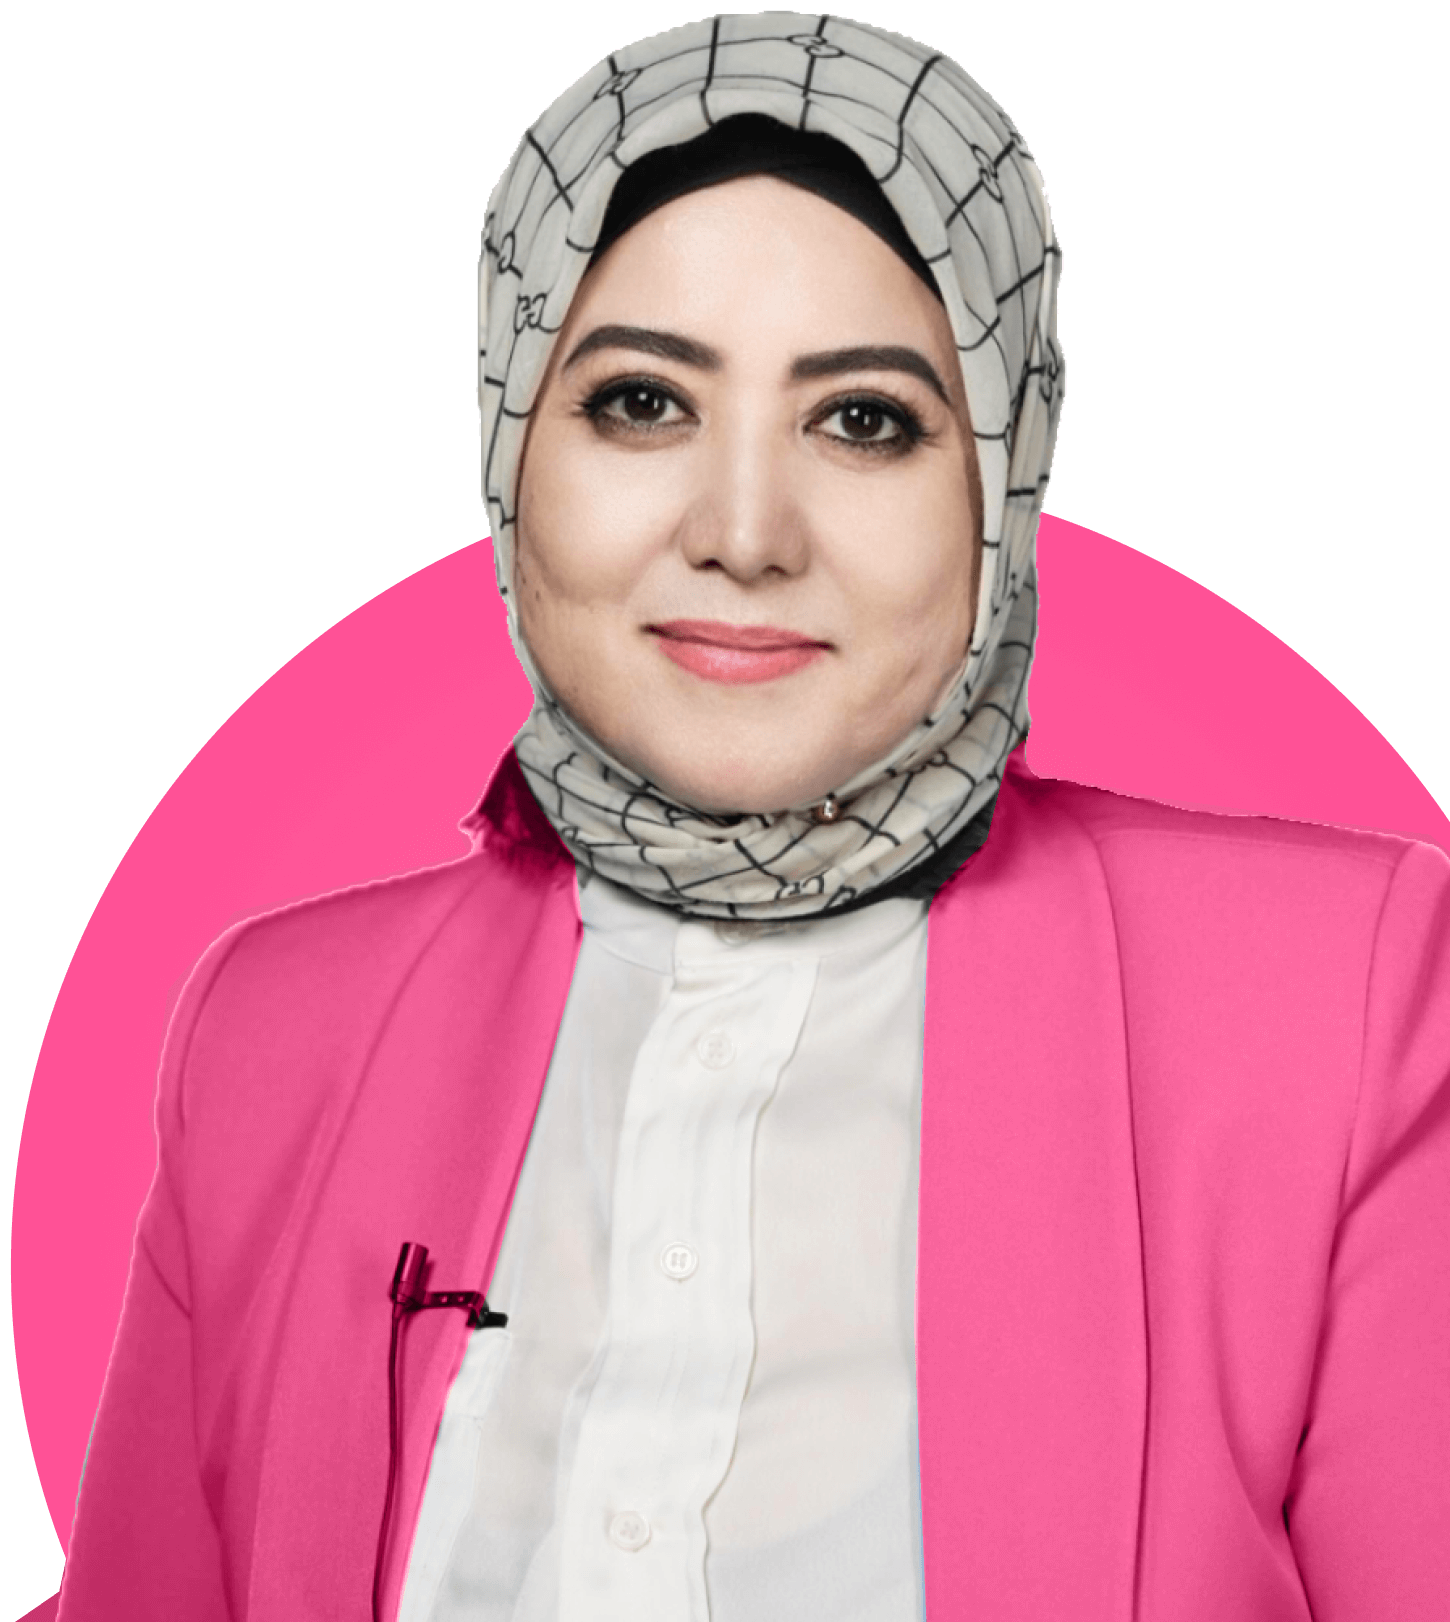
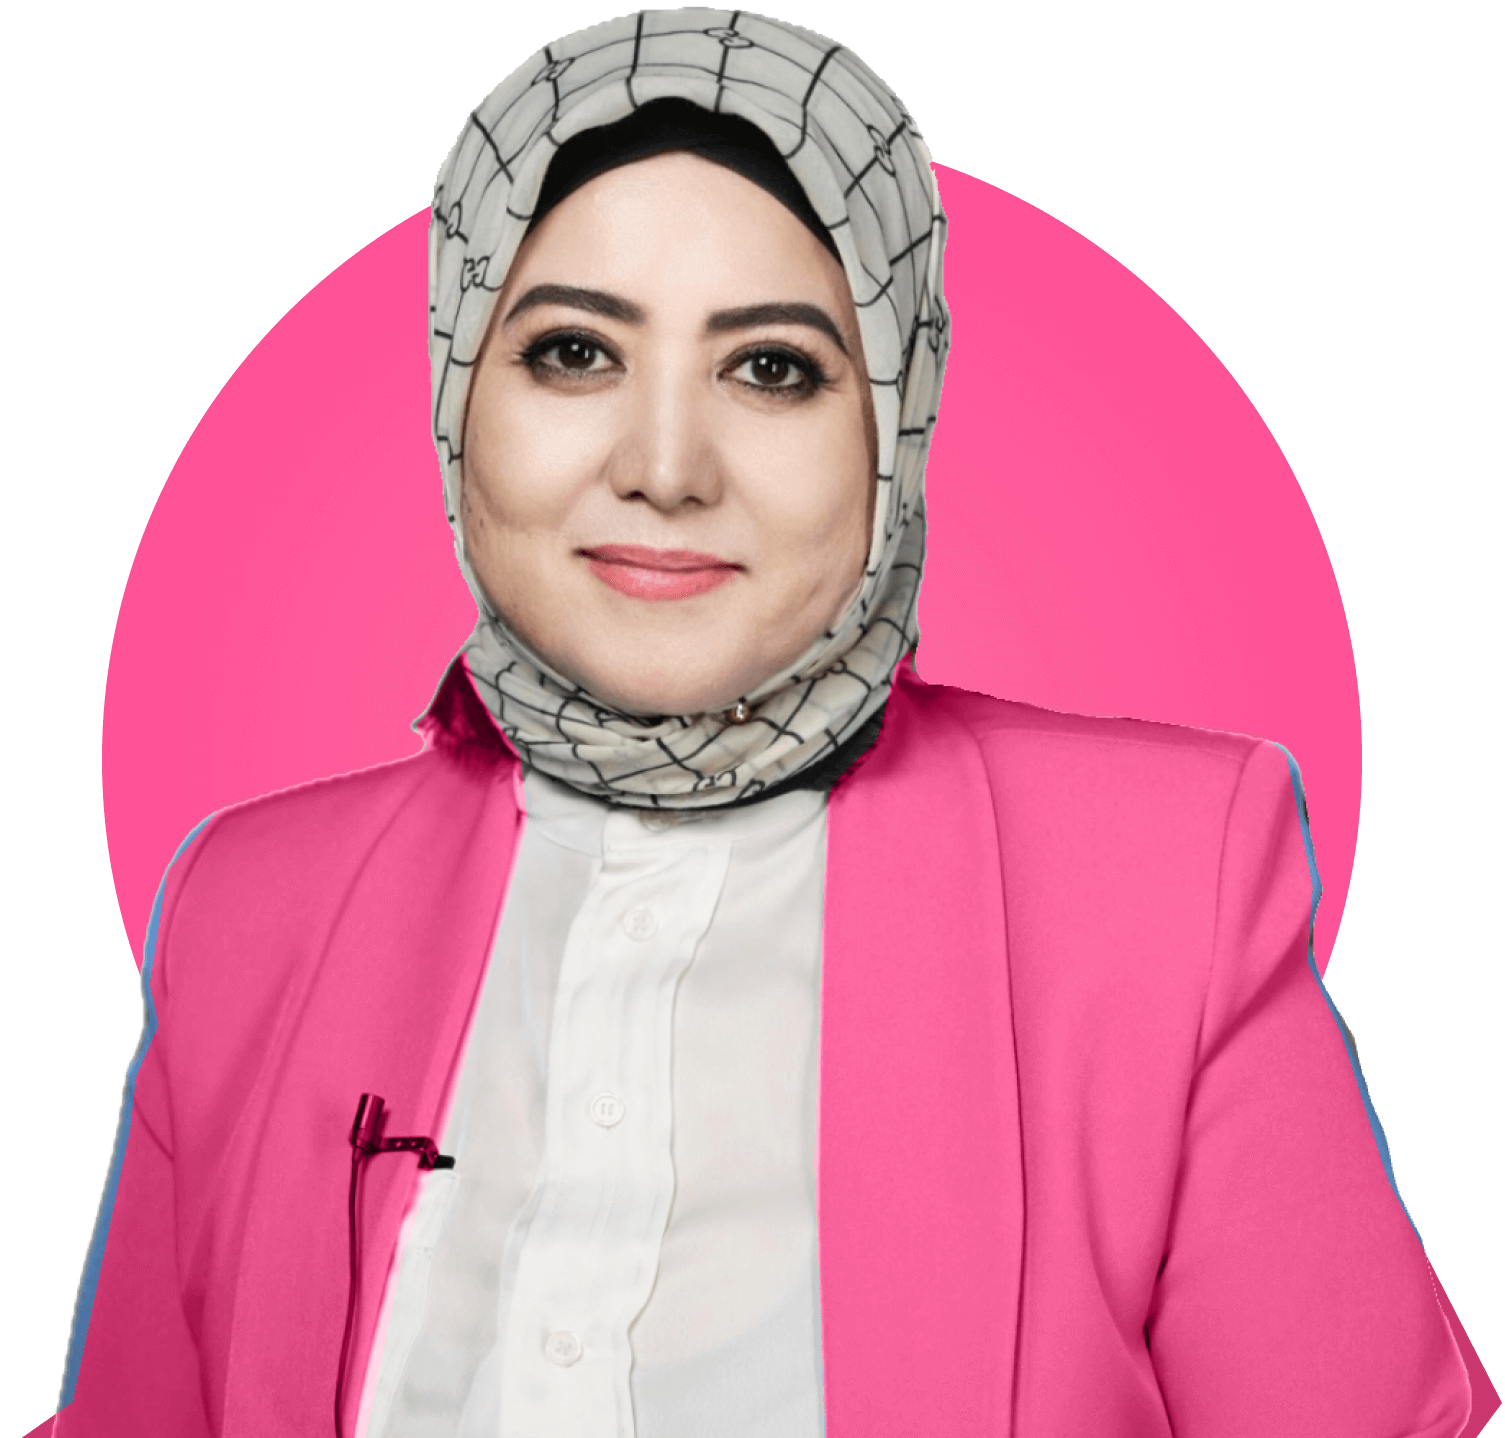
commit

diff --git a/public/index.html b/public/index.html
@@ -32,9 +32,9 @@
   <div class="webinar-main">
     <div class="container">
       <div class="webinar-main-content">
-        <!--<div class="webinar-title">
+        <div class="webinar-title">
           Bepul online webinar
-        </div>-->
+        </div>
 
         <div class="webinar-main-info">
           <h2 class="webinar-main-title">
@@ -81,7 +81,7 @@
     </div>
 
     <div class="mobile-mentor">
-      <picture style="width: 100%; aspect-ratio: 724/809">
+      <picture style="display: block; width: 70%; margin: 0 auto; aspect-ratio: 724/809">
         <source srcset="img/mentor@2x.webp" type="image/webp">
         <img src="img/mentor@2x.png" alt="" loading="lazy">
       </picture>

diff --git a/public/css/styles.css b/public/css/styles.css
@@ -86,7 +86,7 @@ body {
 
 .webinar-date-title {
   font-family: 'Montserrat', sans-serif;
-  font-size: 0.75rem;
+  font-size: 1rem;
   font-weight: 400;
   line-height: 20px;
   color: #000000;
@@ -94,7 +94,7 @@ body {
 
 .webinar-date-date {
   font-family: "Unbounded", Arial, sans-serif;
-  font-size: 1rem;
+  font-size: 1.35rem;
   font-weight: 500;
   letter-spacing: 0;
   color: #000000;
@@ -516,10 +516,6 @@ body {
 @media (max-width: 576px) {
   .webinar-main-mentor img {
     width: 100%;
-  }
-
-  .webinar-title {
-    background-position: 85% -2rem;
   }
 }
 

diff --git a/public/telegram.html b/public/telegram.html
@@ -56,7 +56,7 @@
     </div>
 
     <div class="mobile-mentor">
-      <picture style="width: 100%; aspect-ratio: 724/809">
+      <picture style="display: block; width: 70%; margin: 0 auto; aspect-ratio: 724/809">
         <source srcset="img/mentor@2x.webp" type="image/webp">
         <img src="img/mentor@2x.png" alt="" loading="lazy">
       </picture>
